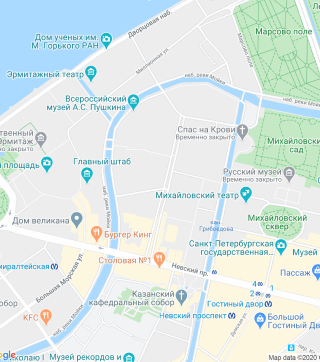
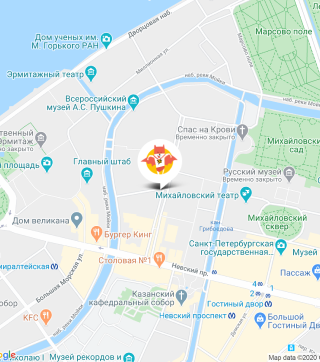
исправил для валидации

Changed region(s): [[0.4375, 0.395, 0.5625, 0.547]]

diff --git a/source/form.html b/source/form.html
@@ -1,5 +1,5 @@
 <!DOCTYPE html>
-<html lang="en" sty>
+<html lang="ru">
   <head>
     <meta charset="UTF-8">
     <meta http-equiv="X-UA-Compatible" content="IE=edge">
@@ -145,18 +145,20 @@
           <p class="contacts__text">приглашаем к&nbsp;сотрудничеству дилеров!</p>
           <address class="contacts__addres">ул. Большая Конюшенная, д. 19/8<br><br class="contacts__br">Санкт-Петербург</address>
         </div>
-        <a class="contacts__map map" href="https://www.google.com/maps/place/%D0%91%D0%BE%D0%BB%D1%8C%D1%88%D0%B0%D1%8F+%D0%9A%D0%BE%D0%BD%D1%8E%D1%88%D0%B5%D0%BD%D0%BD%D0%B0%D1%8F+%D1%83%D0%BB.,+19%2F8,+%D0%A1%D0%B0%D0%BD%D0%BA%D1%82-%D0%9F%D0%B5%D1%82%D0%B5%D1%80%D0%B1%D1%83%D1%80%D0%B3,+191186/@59.938717,30.323047,16z/data=!4m5!3m4!1s0x4696310fca145cc1:0x42b32648d8238007!8m2!3d59.9387165!4d30.3230474?hl=ru" target="_blank" rel="noopener">
-          <span class="visually-hidden">открыть карту нашего местоположения</span>
-          <picture>
-            <img class="map__image" src="img/map-m.png" srcset="img/map-m@2x.png 2x" alt="карта нашего местоположения" width="320" height="362" loading="lazy">
-          </picture>
+        <div class="contacts__map map">
+          <a class="map__link" href="https://www.google.com/maps/place/%D0%91%D0%BE%D0%BB%D1%8C%D1%88%D0%B0%D1%8F+%D0%9A%D0%BE%D0%BD%D1%8E%D1%88%D0%B5%D0%BD%D0%BD%D0%B0%D1%8F+%D1%83%D0%BB.,+19%2F8,+%D0%A1%D0%B0%D0%BD%D0%BA%D1%82-%D0%9F%D0%B5%D1%82%D0%B5%D1%80%D0%B1%D1%83%D1%80%D0%B3,+191186/@59.938717,30.323047,16z/data=!4m5!3m4!1s0x4696310fca145cc1:0x42b32648d8238007!8m2!3d59.9387165!4d30.3230474?hl=ru" target="_blank" rel="noopener">
+            <span class="visually-hidden">открыть карту нашего местоположения</span>
+            <picture>
+              <img class="map__image" src="img/map-m.png" srcset="img/map-m@2x.png 2x" alt="карта нашего местоположения" width="320" height="362" loading="lazy">
+            </picture>
+          </a>
           <iframe class="map__frame" title="карта нашего местоположения" src="https://www.google.com/maps/embed?pb=!1m18!1m12!1m3!1d1998.603787253322!2d30.320858716055003!3d59.938716481876234!2m3!1f0!2f0!3f0!3m2!1i1024!2i768!4f13.1!3m3!1m2!1s0x4696310fca145cc1%3A0x42b32648d8238007!2z0JHQvtC70YzRiNCw0Y8g0JrQvtC90Y7RiNC10L3QvdCw0Y8g0YPQuy4sIDE5LzgsINCh0LDQvdC60YIt0J_QtdGC0LXRgNCx0YPRgNCzLCAxOTExODY!5e0!3m2!1sru!2sru!4v1617132864605!5m2!1sru!2sru" height="362" allowfullscreen="" loading="lazy" style="border: 0;" hidden>
           </iframe>
           <picture class="map__marker-box">
             <source media="(min-width: 768px)" srcset="img/map-pin.png 1x, img/map-pin@2x.png 2x">
             <img class="map__marker" src="img/map-pin-m.png" srcset="img/map-pin-m@2x.png 2x" alt="здесь мы находимся" width="57" height="53" aria-hidden="true">
           </picture>
-        </a>
+        </div>
       </section>
     </main>
     <footer class="page-footer">

diff --git a/source/catalog.html b/source/catalog.html
@@ -1,5 +1,5 @@
 <!DOCTYPE html>
-<html lang="en">
+<html lang="ru">
   <head>
     <meta charset="UTF-8">
     <meta http-equiv="X-UA-Compatible" content="IE=edge">
@@ -310,18 +310,20 @@
           <p class="contacts__text">приглашаем к&nbsp;сотрудничеству дилеров!</p>
           <address class="contacts__addres">ул. Большая Конюшенная, д. 19/8<br><br class="contacts__br">Санкт-Петербург</address>
         </div>
-        <a class="contacts__map map" href="https://www.google.com/maps/place/%D0%91%D0%BE%D0%BB%D1%8C%D1%88%D0%B0%D1%8F+%D0%9A%D0%BE%D0%BD%D1%8E%D1%88%D0%B5%D0%BD%D0%BD%D0%B0%D1%8F+%D1%83%D0%BB.,+19%2F8,+%D0%A1%D0%B0%D0%BD%D0%BA%D1%82-%D0%9F%D0%B5%D1%82%D0%B5%D1%80%D0%B1%D1%83%D1%80%D0%B3,+191186/@59.938717,30.323047,16z/data=!4m5!3m4!1s0x4696310fca145cc1:0x42b32648d8238007!8m2!3d59.9387165!4d30.3230474?hl=ru" target="_blank" rel="noopener">
-          <span class="visually-hidden">открыть карту нашего местоположения</span>
-          <picture>
-            <img class="map__image" src="img/map-m.png" srcset="img/map-m@2x.png 2x" alt="карта нашего местоположения" width="320" height="362" loading="lazy">
-          </picture>
+        <div class="contacts__map map">
+          <a class="map__link" href="https://www.google.com/maps/place/%D0%91%D0%BE%D0%BB%D1%8C%D1%88%D0%B0%D1%8F+%D0%9A%D0%BE%D0%BD%D1%8E%D1%88%D0%B5%D0%BD%D0%BD%D0%B0%D1%8F+%D1%83%D0%BB.,+19%2F8,+%D0%A1%D0%B0%D0%BD%D0%BA%D1%82-%D0%9F%D0%B5%D1%82%D0%B5%D1%80%D0%B1%D1%83%D1%80%D0%B3,+191186/@59.938717,30.323047,16z/data=!4m5!3m4!1s0x4696310fca145cc1:0x42b32648d8238007!8m2!3d59.9387165!4d30.3230474?hl=ru" target="_blank" rel="noopener">
+            <span class="visually-hidden">открыть карту нашего местоположения</span>
+            <picture>
+              <img class="map__image" src="img/map-m.png" srcset="img/map-m@2x.png 2x" alt="карта нашего местоположения" width="320" height="362" loading="lazy">
+            </picture>
+          </a>
           <iframe class="map__frame" title="карта нашего местоположения" src="https://www.google.com/maps/embed?pb=!1m18!1m12!1m3!1d1998.603787253322!2d30.320858716055003!3d59.938716481876234!2m3!1f0!2f0!3f0!3m2!1i1024!2i768!4f13.1!3m3!1m2!1s0x4696310fca145cc1%3A0x42b32648d8238007!2z0JHQvtC70YzRiNCw0Y8g0JrQvtC90Y7RiNC10L3QvdCw0Y8g0YPQuy4sIDE5LzgsINCh0LDQvdC60YIt0J_QtdGC0LXRgNCx0YPRgNCzLCAxOTExODY!5e0!3m2!1sru!2sru!4v1617132864605!5m2!1sru!2sru" height="362" allowfullscreen="" loading="lazy" style="border: 0;" hidden>
           </iframe>
           <picture class="map__marker-box">
             <source media="(min-width: 768px)" srcset="img/map-pin.png 1x, img/map-pin@2x.png 2x">
             <img class="map__marker" src="img/map-pin-m.png" srcset="img/map-pin-m@2x.png 2x" alt="здесь мы находимся" width="57" height="53" aria-hidden="true">
           </picture>
-        </a>
+        </div>
       </section>
     </main>
     <footer class="page-footer">

diff --git a/source/index.html b/source/index.html
@@ -1,5 +1,5 @@
 <!DOCTYPE html>
-<html lang="en">
+<html lang="ru">
   <head>
     <meta charset="UTF-8">
     <meta http-equiv="X-UA-Compatible" content="IE=edge">
@@ -164,18 +164,20 @@
           <p class="contacts__text">приглашаем к&nbsp;сотрудничеству дилеров!</p>
           <address class="contacts__addres">ул. Большая Конюшенная, д. 19/8<br><br class="contacts__br">Санкт-Петербург</address>
         </div>
-        <a class="contacts__map map" href="https://www.google.com/maps/place/%D0%91%D0%BE%D0%BB%D1%8C%D1%88%D0%B0%D1%8F+%D0%9A%D0%BE%D0%BD%D1%8E%D1%88%D0%B5%D0%BD%D0%BD%D0%B0%D1%8F+%D1%83%D0%BB.,+19%2F8,+%D0%A1%D0%B0%D0%BD%D0%BA%D1%82-%D0%9F%D0%B5%D1%82%D0%B5%D1%80%D0%B1%D1%83%D1%80%D0%B3,+191186/@59.938717,30.323047,16z/data=!4m5!3m4!1s0x4696310fca145cc1:0x42b32648d8238007!8m2!3d59.9387165!4d30.3230474?hl=ru" target="_blank" rel="noopener">
-          <span class="visually-hidden">открыть карту нашего местоположения</span>
-          <picture>
-            <img class="map__image" src="img/map-m.png" srcset="img/map-m@2x.png 2x" alt="карта нашего местоположения" width="320" height="362" loading="lazy">
-          </picture>
+        <div class="contacts__map map">
+          <a class="map__link" href="https://www.google.com/maps/place/%D0%91%D0%BE%D0%BB%D1%8C%D1%88%D0%B0%D1%8F+%D0%9A%D0%BE%D0%BD%D1%8E%D1%88%D0%B5%D0%BD%D0%BD%D0%B0%D1%8F+%D1%83%D0%BB.,+19%2F8,+%D0%A1%D0%B0%D0%BD%D0%BA%D1%82-%D0%9F%D0%B5%D1%82%D0%B5%D1%80%D0%B1%D1%83%D1%80%D0%B3,+191186/@59.938717,30.323047,16z/data=!4m5!3m4!1s0x4696310fca145cc1:0x42b32648d8238007!8m2!3d59.9387165!4d30.3230474?hl=ru" target="_blank" rel="noopener">
+            <span class="visually-hidden">открыть карту нашего местоположения</span>
+            <picture>
+              <img class="map__image" src="img/map-m.png" srcset="img/map-m@2x.png 2x" alt="карта нашего местоположения" width="320" height="362" loading="lazy">
+            </picture>
+          </a>
           <iframe class="map__frame" title="карта нашего местоположения" src="https://www.google.com/maps/embed?pb=!1m18!1m12!1m3!1d1998.603787253322!2d30.320858716055003!3d59.938716481876234!2m3!1f0!2f0!3f0!3m2!1i1024!2i768!4f13.1!3m3!1m2!1s0x4696310fca145cc1%3A0x42b32648d8238007!2z0JHQvtC70YzRiNCw0Y8g0JrQvtC90Y7RiNC10L3QvdCw0Y8g0YPQuy4sIDE5LzgsINCh0LDQvdC60YIt0J_QtdGC0LXRgNCx0YPRgNCzLCAxOTExODY!5e0!3m2!1sru!2sru!4v1617132864605!5m2!1sru!2sru" height="362" allowfullscreen="" loading="lazy" style="border: 0;" hidden>
           </iframe>
           <picture class="map__marker-box">
             <source media="(min-width: 768px)" srcset="img/map-pin.png 1x, img/map-pin@2x.png 2x">
             <img class="map__marker" src="img/map-pin-m.png" srcset="img/map-pin-m@2x.png 2x" alt="здесь мы находимся" width="57" height="53" aria-hidden="true">
           </picture>
-        </a>
+        </div>
       </section>
     </main>
     <footer class="page-footer">

diff --git a/source/less/map/style.less b/source/less/map/style.less
@@ -12,16 +12,21 @@
   }
 }
 
+.map__link {
+  display: block;
+  height: 100%;
+
+  @media @tablet {
+    display: none;
+  }
+}
+
 .map__image {
   min-width: 100%;
   height: auto;
   position: relative;
   top: 50%;
   transform: translateY(-50%);
-
-  @media @tablet {
-    display: none;
-  }
 }
 
 .map__frame {
@@ -35,9 +40,12 @@
 }
 
 .map__marker-box {
-  position: absolute;
-  bottom: 47%;
-  left: 42%;
+  display: none;
+
+  @media @tablet {
+    display: block;
+    position: absolute;
+  }
 
   @media @tabletonly {
     bottom: 37%;
